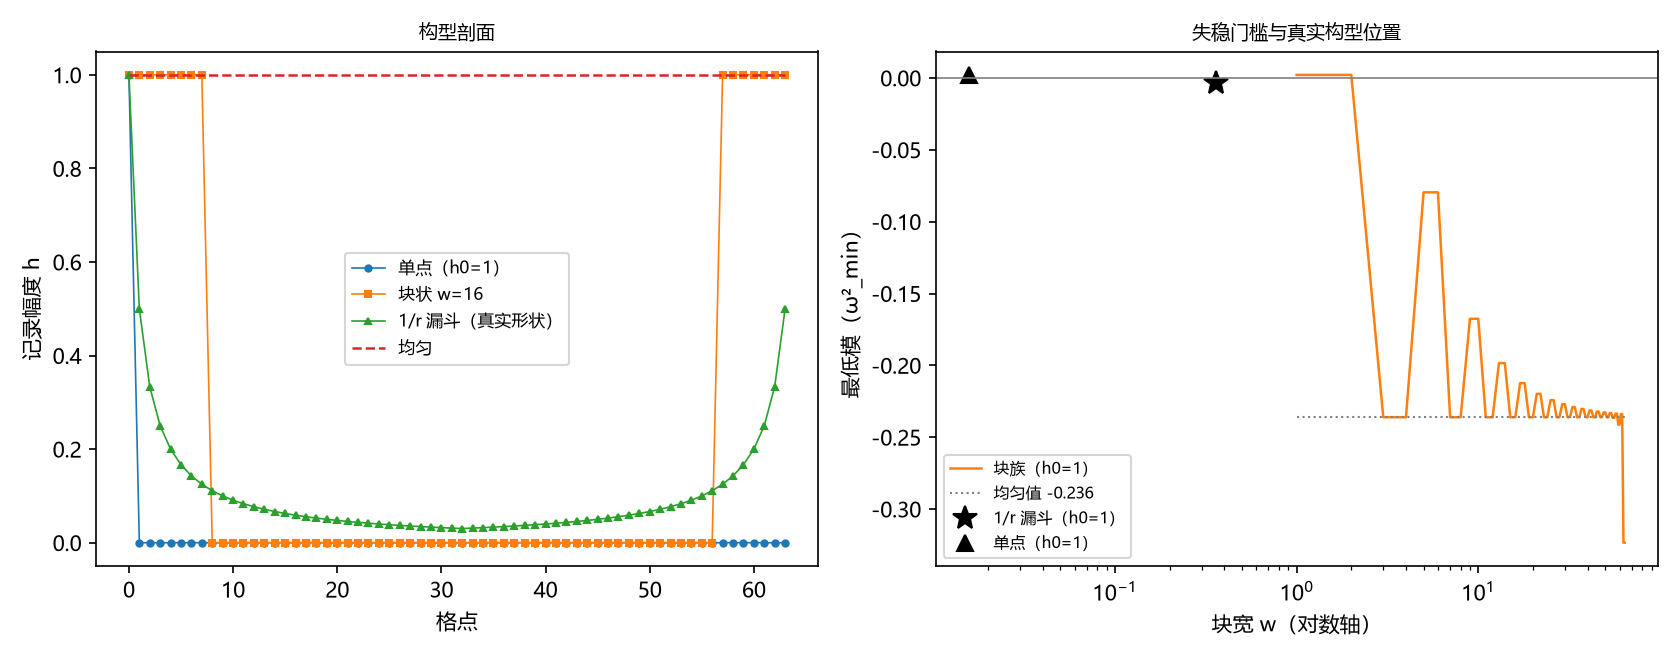
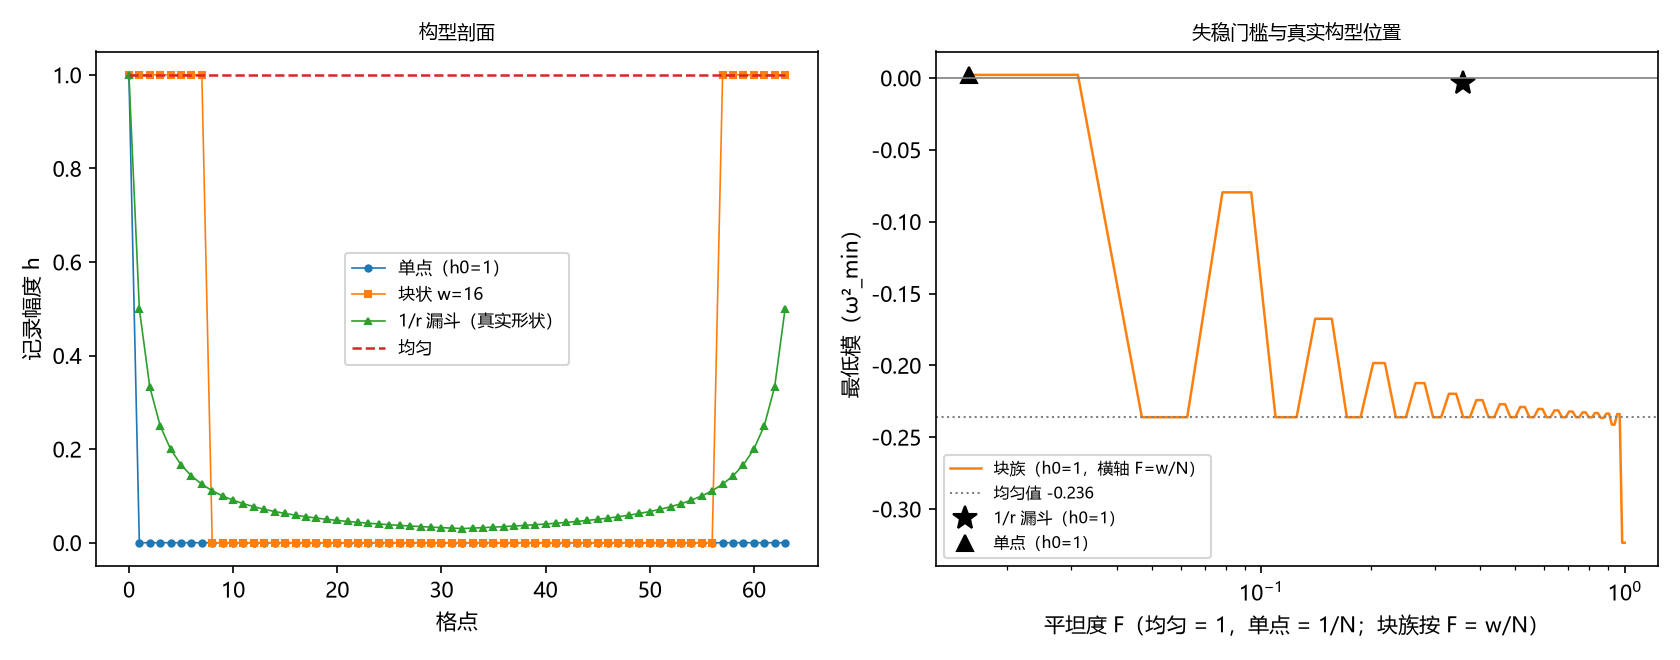
弱失稳论文评审与修改落地：B 级 6 条全改、C 级 5/6 改（删除「节点在中心」机制断言改为数据规律并标注精确形态待分析、图 1 横轴由块宽统一为平坦度 F、W5d 阈值注明为判据设定值而非物理门槛、补覆盖与强度的统一读法与 Hessian 符号相似变换说明）；新增评审报告与修改报告；验证材料联动（脚本块族输出加宽到 18 档、注记修订记录与图注重写、图重绘）

diff --git a/验证脚本/minimal_verification_reopen_realfield.py b/验证脚本/minimal_verification_reopen_realfield.py
@@ -5,7 +5,7 @@
   W5a 对照复现：均匀 h = 1 的最低模与解析 2J - sqrt((2J)^2 + (lam h)^2) 一致（<= 1e-10）。
   W5b 两端复现：单点 h = 1 最低模 > 0；均匀 h = 1 最低模 < 0。
   W5c 最小失稳覆盖：块状构型族（h0 = 1）存在最小失稳宽 w*（1 < w* < 64）；
-       并报告最低模对块宽的非单调性（驻波匹配效应，报告项）。
+       并报告最低模对块宽的非单调性（报告项）。
   W5d 弱失稳判定（修正版）：真实 1/r 衰减构型（h_n = h0/(1+d_n)，h0 = 1）的失稳幅度
        不超过均匀情形的 5%（|ω_min| / |ω_uniform| < 0.05）。
        原始预期为「漏斗最低模 > 0（不失稳）」，实测 -0.0033 < 0，预期被推翻；
@@ -103,8 +103,8 @@ check("W5c", w_star is not None and 1 < w_star < N,
       % (w_star, F_star, mins[w_star - 2], mins[w_star - 1]))
 
 print("\n  块族扫描（h0=1，报告非单调性）：")
-print("      w:      " + " ".join("%7d" % w for w in ws[:12]))
-print("      ω²_min: " + " ".join("%+7.4f" % mins[i] for i in range(12)))
+print("      w:      " + " ".join("%7d" % w for w in ws[:18]))
+print("      ω²_min: " + " ".join("%+7.4f" % mins[i] for i in range(18)))
 nonmono = bool(np.any(np.diff(mins) > 0))
 print("      非单调（存在上升段）：%s" % nonmono)
 
@@ -150,13 +150,14 @@ ax.set_title("构型剖面", fontsize=9)
 ax.legend(fontsize=8)
 
 ax = axs[1]
-ax.plot(ws, mins, "-", color="tab:orange", lw=1.2, label="块族（h0=1）")
-ax.plot([ws[0], ws[-1]], [m_u, m_u], ":", color="gray", lw=1.0, label="均匀值 %.3f" % m_u)
+wsF = np.array(ws) / N
+ax.plot(wsF, mins, "-", color="tab:orange", lw=1.2, label="块族（h0=1，横轴 F=w/N）")
+ax.axhline(m_u, color="gray", lw=1.0, ls=":", label="均匀值 %.3f" % m_u)
 ax.plot([flatness(h_f)], [m_f], "k*", ms=12, label="1/r 漏斗（h0=1）")
 ax.plot([flatness(prof_single(1.0))], [m_s], "k^", ms=8, label="单点（h0=1）")
 ax.axhline(0.0, color="gray", lw=0.8)
 ax.set_xscale("log")
-ax.set_xlabel("块宽 w（对数轴）")
+ax.set_xlabel("平坦度 F（均匀 = 1，单点 = 1/N；块族按 F = w/N）")
 ax.set_ylabel("最低模（ω²_min）")
 ax.set_title("失稳门槛与真实构型位置", fontsize=9)
 ax.legend(fontsize=7.5)

diff --git a/评审报告/评审报告-弱失稳与驻波门槛-2026-09-17.md b/评审报告/评审报告-弱失稳与驻波门槛-2026-09-17.md
@@ -1,0 +1,73 @@
+## 评审报告
+
+**论文标题**：弱失稳与驻波门槛：记录与摆程耦合在真实记录构型下的量级
+
+**评审日期**：2026-09-17
+
+**受审版本**：`弱失稳与驻波门槛：记录与摆程耦合在真实记录构型下的量级.md`（根目录正稿，初版，约 131 行）
+
+**总体评价**：本文把弱版方向一的验证写成完整论述：判别点背景交代清楚，模型与判据设计透明，读数与出处齐全，结论强度与证据相称（「能，但弱」的措辞克制），修正留痕按流程如实呈现，属体系内「结论不强于证据」的写法。核心结论（真实构型下的弱失稳、最小失稳宽 3 格、幅度与增长率对照）由判据与数值双重支撑，逐式核对与数字对照全部通过。主要问题有四类：一是 §3.2 与 §4.2 的一处机制断言（缺陷中心的节点与反节点归属）经本评审独立验证不成立，属事实性错误，须改写；二是图 1 右面板的横轴混用（曲线用块宽、标记用平坦度），两标记点的位置在「块宽」轴上无意义；三是两处讨论缺口（平坦度 F 的角色不清、3 格强失稳与全链弱失稳的表面张力未统一交代）；四是引用体系问题（正文引用与参考文献编号脱钩）。未发现 A 级问题；修完 B 级后本文可进入转正流程。
+
+### A级问题
+
+无。核心推导复算、读数对照与逻辑链条均通过；见「数学正确性逐式核对记录」。
+
+### B级问题
+
+| # | 位置 | 问题描述 | 建议修改 |
+|---|------|---------|---------|
+| B1 | §3.2 末段、§4.2 第二段 | 「半宽为奇数时模式在缺陷中心取反节点、偶数时节点落在中心」的机制断言经本评审验证不成立：对 w = 3、5、7、9 计算最低模本征矢，中心格点（n = 0）分量分别为 −0.325、−0.358、−0.245、−0.307，全部非零，不存在「节点在中心」的档位。奇偶两类差异的精确来源（边缘匹配的具体形态）尚未解析 | 改写为已核实的数据规律：最低模对半宽呈两类（奇数半宽锁定与均匀同值 −0.2361，偶数半宽随宽度逐渐加深并趋近该值，补充读数 w = 13 给 −0.1984、w = 17 给 −0.2123）；删除节点与反节点的归属叙述，或标注「驻波匹配的精确形态待分析」。同步修改验证注记 §四同句 |
+| B2 | §2.1 | Hessian 非对角元写作 $H_{n,n\pm1} = J$（正号），而由能量函数直接求导得到的物理 Hessian 非对角元为 $-J$。两者相差一个相似变换（对角元不变、非对角翻号，谱相同），结论不受影响，但文中未声明该约定 | 加一句说明：本文 Hessian 采用交错变换后的等价形式，非对角符号为正；两者谱相同，读数不受影响。或改用物理形式 $-J$ 重跑核对 |
+| B3 | §3.4 图 1 | 右面板横轴混用：块族曲线以块宽 $w$ 为横轴（$x \in [1, 64]$），而 1/r 漏斗与单点的标记以平坦度 $F$ 为横轴（$F \approx 0.358$ 与 $0.016$），两个标记点的水平位置画在「块宽」轴上没有意义 | 统一坐标轴：或把两个标记折算到等效块宽（按定义换算），或把块族曲线也改用平坦度 F 为横轴（并同步修改轴标签与图注）；修复后同步更新验证脚本、验证注记图注与论文图注 |
+| B4 | §2.2、§2.3 | 平坦度 $F$ 引入后未承担结论：正文唯一用途是给出 $F^* = 0.047$，而 1/r 构型的 $F = 0.358$ 大于 $F^*$ 却呈弱失稳，这一反直觉对照未在正文出现，读者若自行换算会与「覆盖率越高越危险」的直觉冲突 | 在 §3.3 或 §4.2 补一句限定：$F$ 只作构型覆盖程度的辅助描述，失稳强度同时由幅度分布与形状匹配决定，不能用 $F$ 单独预测；或收窄 $F$ 的使用范围并相应修改其引入方式 |
+| B5 | §3.2、§3.3、§4.2 | 两节之间存在表面张力未统一讨论：最小失稳宽仅 3 格（强失稳，锁定 −0.2361），而覆盖全链的 1/r 构型（覆盖远超 3 格）却呈弱失稳（−0.0033）。两处读数各自正确，但并置时读者会问「为何覆盖更小反而更强」 | 在 §4.2 补一段解释：3 格块是满幅成片，与均匀值锁定同在最强分支；1/r 构型的远场幅度按 $1/d$ 衰减，对最低模的贡献被大幅度压低，故强度取「覆盖宽度」与「幅度分布」的合成，单一指标均不能预测 |
+| B6 | 参考文献 §全部 | 正文引用全部以内联双链（wikilink）给出，编号 [1] 至 [8] 在正文中没有任何对应标记，编号与引用体系脱钩 | 在参考文献节首加一句说明（编号供索引，正文引用以内链为准），或在正文相应位置补 [n] 标记；两法择一，保持全文统一 |
+
+### C级问题
+
+| # | 位置 | 问题描述 | 建议修改 |
+|---|------|---------|---------|
+| C1 | §4.1 | 「两个触发器在同一条链上赛跑」的表述偏口语化；同段「强度较均匀假设弱近一个数量级」的「强度」指代含糊（幅度差 71 倍、增长率差 8.5 倍） | 「赛跑」改「竞争」或加引号；「强度」改「增长率」，与摘要的「增长率约慢 8 至 9 倍」对齐 |
+| C2 | §2.1 | 「对二聚化方向失稳」中「二聚化」首次出现未作定义 | 补一处简短定义（两两成对的另一种交错站法）或引弱版验证注记 |
+| C3 | §2.3 | W5d 的 5% 阈值未注明性质 | 补一句：该阈值是判据修正后的设定值（用于消除原预期的残留），并非物理门槛 |
+| C4 | §2.1 | 均匀解析式直接给出未附一句来源 | 补「（由 $k = 0$ 分支的两分量混合模式给出）」或引验证材料 |
+| C5 | §3.4 图注 | 图注未写明块族曲线对应的幅度（$h_0 = 1$） | 图注补「块族曲线为 $h_0 = 1$」；与其他面板标记的幅度口径一致 |
+| C6 | §1.1 | 若本文对外发布，宜补与外部相关工作的对照（二聚化链的不稳定性、SSH 类模型的谱结构），当前为纯内部引用 | 内部版本可保持；对外版本在 §1 或 §4 补一小段外部对照并引原始文献 |
+
+### 各维度评分
+
+| 维度 | 评分（1-10） | 简要说明 |
+|:-----|:-----------|:---------|
+| 结构完整性 | 8 | 标题准确、摘要四要素齐备、引言与结论呼应；引用体系小缺口（B6） |
+| 内容与论证质量 | 7 | 论纲有判据与数值双重支撑、措辞克制；一处机制断言不成立（B1）、两处讨论缺口（B4、B5） |
+| LaTeX 与数学格式 | 9 | 公式结构、间距（$\,$）、转义（$\%$）与符号规范；无渲染风险项 |
+| 语言与表达 | 8 | 术语一致、无 em-dash 与禁句式；两处口语化与指代含糊（C1） |
+| 引用与参考文献 | 6 | 参考文献格式统一、内链目标全部存在；编号与正文引用脱钩（B6），外部对照缺失（C6） |
+| 逻辑一致性与自洽 | 8 | 符号全文一致、表格与正文一致；3 格与 1/r 的表面张力未统一交代（B5） |
+| 数学正确性 | 7 | 逐式核对通过（见下）；一处机制断言经独立验证不成立（B1）、一处约定未声明（B2） |
+
+**数学正确性维度的逐式核对记录**
+
+其一，能量函数与 Hessian 复算：由 $E = J\sum\cos(\theta_{n+1}-\theta_n) + \lambda\sum(1-\cos\theta_n)h_n$ 在交错背景求二阶导，对角元为 $2J + \lambda(-1)^n h_n$、非对角元为 $-J$；论文与脚本用 $+J$，系交错变换（$S = \mathrm{diag}((-1)^n)$，$SHS$ 保持对角、翻转非对角符号）下的等价形式，谱相同，结论不受影响；该约定未声明（B2）。
+
+其二，均匀解析式复推：布洛赫分解下 $k = 0$ 分支的两分量混合矩阵为 $\begin{pmatrix} 0 & \lambda h \\ \lambda h & 4J \end{pmatrix}$，特征值为 $2J \pm \sqrt{(2J)^2+(\lambda h)^2}$；$h = 1$ 时 $2-\sqrt{5} = -0.236068$ 与论文一致。
+
+其三，数字逐一对照脚本输出：$-0.2360679775$、$+0.002135$、$-0.236068$、$-0.0796$、$-0.1676$、$-0.003300$、$1.40\%$、$1/8.5$、$+0.001272$、$-0.214374$、$w^* = 3$、$F^* = 3/64 = 0.047$、$h_0$ 从 0.5 至 5 的门槛不变，全部一致。
+
+其四，本评审补验证（读数延伸）：块族更宽档 $w = 13$ 给 $-0.198394$、$w = 15$ 给 $-0.236068$、$w = 17$ 给 $-0.212338$，「每隔两档回访 $-0.2361$、其余逐渐加深」的数据规律成立，且「逐渐变深」得到更多样点支持。
+
+其五，本评审补验证（关键）：最低模本征矢的中心（$n = 0$）分量，$w = 3$ 为 $-0.3249$、$w = 5$ 为 $-0.3585$、$w = 7$ 为 $-0.2446$、$w = 9$ 为 $-0.3070$，全部非零；「偶数半宽节点落在中心」的断言不成立（B1）。
+
+其六，增长率换算：$\sqrt{0.003300/0.236068} = 0.1182$，即约 $1/8.5$，与论文一致。
+
+其七，平坦度公式与数值：$F = (\sum h)^2/(N\sum h^2)$，均匀给 $1$、单点给 $1/N$、$w$ 格块给 $w/N$，$F^* = 3/64$ 一致。
+
+### 开放问题（如需讨论）
+
+其一，B1 的改写会牵动验证注记 §四 的同句与脚本输出的措辞（脚本打印「非单调（存在上升段）：True」无断言问题，但注记与论文两处同句需同批修改），是否同批处理，请作者定。
+
+其二，奇偶锯齿的精确来源（边缘匹配的解析刻画）是否值得单列一条小判据（例如核对本征矢在缺陷边界的相位条件），属下一轮可选项。
+
+其三，图 1 修复采用哪种统一坐标轴（等效块宽或统一改 F 轴）会影响读者对「覆盖率直觉」的第一印象，建议与 B4 的限定语一并考虑。
+
+其四，若本文计划对外发布，C6 的外部对照（二聚化链不稳定性类文献）需作者指定引用范围。

diff --git a/验证脚本/注记-弱版方向一的最小验证：真实记录构型下的失稳量级与驻波门槛.md b/验证脚本/注记-弱版方向一的最小验证：真实记录构型下的失稳量级与驻波门槛.md
@@ -11,6 +11,9 @@
   - **2026-09-16 初版**（作者指示：做弱版方向一）
     - 构型族（单点、块状、1/r 漏斗、平滑族）、四项判据、门槛扫描与图
     - 判据修正两处（W5d 原预期被推翻；W5c 增补非单调报告），见过程记录
+  - **2026-09-17 修订**（评审报告 B1、B3 联动修正）
+    - 结构叙述改为数据规律（删「缺陷中心取反节点／节点落在中心」的机制断言，精确形态标注待分析）；补更宽档样点（w = 13 至 w = 17）
+    - 图 1 横轴统一为平坦度 F（块族按 F = w/N 折算），图注同步；块族曲线标注 h0 = 1
 
 ---
 
@@ -45,15 +48,17 @@ W5e 门槛对幅度的依赖（报告）：$h_0$ 取 $0.5$、$1$、$2$、$5$ 时
 | W5c 最小失稳宽 | $w^* = 3$（$F^* = 0.047$）；非单调性存在 | PASS |
 | W5d 真实构型量级 | $-0.003300$，为均匀幅度的 $1.40\%$ | PASS（修正版） |
 
-补充分布读数。块族最低模随块宽非单调：$w = 3, 4$ 给 $-0.2361$（与均匀同值），$w = 5, 6$ 给 $-0.0796$，$w = 7, 8$ 回到 $-0.2361$，$w = 9, 10$ 给 $-0.1676$，此后每隔两档在 $-0.2361$ 与逐渐变深的其他值之间交替。$w^* = 3$ 对全部测试幅度成立（$h_0$ 从 $0.5$ 到 $5$ 均为 $3$）。平滑族单调过渡：$w = 1$ 给 $+0.001272$，$w = 2$ 给 $-0.003300$（即 1/r 形状的值），$w = 256$ 给 $-0.214374$，趋近均匀值。
+补充分布读数。块族最低模随块宽非单调：$w = 3, 4$ 给 $-0.2361$（与均匀同值），$w = 5, 6$ 给 $-0.0796$，$w = 7, 8$ 回到 $-0.2361$，$w = 9, 10$ 给 $-0.1676$；此后每隔两档在 $-0.2361$ 与逐渐变深的其他值之间交替（更宽档样点：$w = 13$ 给 $-0.1984$、$w = 17$ 给 $-0.2123$）。
 
-![图 1：左面板为四类构型剖面（单点、块状 w=16、1/r 漏斗、均匀随格点的分布）；右面板为块族最低模随块宽（对数轴）的曲线（含非单调锯齿）、均匀值虚线、1/r 漏斗与单点的标记位置、零线。](../images/reopen_realfield.png)
+$w^* = 3$ 对全部测试幅度成立（$h_0$ 从 $0.5$ 到 $5$ 均为 $3$）。平滑族单调过渡：$w = 1$ 给 $+0.001272$，$w = 2$ 给 $-0.003300$（即 1/r 形状的值），$w = 256$ 给 $-0.214374$，趋近均匀值。
+
+![图 1：左面板为四类构型剖面（单点、块状 w=16、1/r 漏斗、均匀随格点的分布）；右面板为各构型最低模随平坦度 F（对数轴；块族按 $F = w/N$ 折算）的曲线与标记（含非单调锯齿）、均匀值虚线、零线；块族幅度为 $h_0 = 1$。](../images/reopen_realfield.png)
 
 ## 四、解读
 
 **对判别点的回答**。BH3-5 留下的判别点是「耦合能否独立触发失稳」。本轮在一维层给出的回答：能，但弱。真实 1/r 构型的最低模为 $-0.0033$，线性增长率约为均匀情形的 $\sqrt{0.0033/0.236} \approx 1/8.5$。耦合路线未被排除（失稳不消失），其强度较均匀假设弱近一个数量级。若与「饱和路线」赛跑，耦合触发在时间尺度上处于劣势，这与 BH3-5 的饱和主导倾向方向一致，但以「弱失稳」而非「无失稳」的方式成立。定量结论留待强场工具（三维构型与 $\lambda$ 的实际值）。
 
-**非单调性的结构解释**。块族的锯齿来自缺陷与驻波的边界匹配：块的对称半宽为奇数时，模式在缺陷中心取反节点，最低模锁定在 $-0.2361$（与均匀同值）；半宽为偶数时节点落在中心，最低模随宽度变化。这提示两点：其一，一维链上「最小失稳宽 3 格」是存在性门槛，失稳幅度由构型的对称类决定；其二，「均匀度门槛」的简单化解读不可靠，一维结论不宜直接外推三维。
+**非单调性的结构观察**。块的两端是缺陷边界；最低模对半宽呈两类：奇数半宽锁定在与均匀相同的值 $-0.2361$，偶数半宽随宽度逐渐加深并趋近该值（样点：$w = 9$ 给 $-0.1676$、$w = 13$ 给 $-0.1984$、$w = 17$ 给 $-0.2123$）。这提示两点：其一，一维链上「最小失稳宽 3 格」是存在性门槛，失稳幅度由构型的对称类分档；其二，这一奇偶分类的精确形态（模式与缺陷边界的匹配关系）待进一步分析，「均匀度门槛」的简单化解读不可靠。
 
 **平滑族的含义**。从窄峰到近平坦的连续过渡单调加深失稳，说明「记录覆盖越宽、失稳越强」的大方向在一维成立（与块族的锯齿叠加时不冲突：锯齿是同一覆盖下的对称类差异）。
 
@@ -69,7 +74,7 @@ W5e 门槛对幅度的依赖（报告）：$h_0$ 取 $0.5$、$1$、$2$、$5$ 时
 
 其二，构型形状为选择（1/r 的离散模拟与平滑族），并非从三维泊松解严格约化而来；三维真实场的失稳谱需要强场工具。
 
-其三，非单调锯齿是一维驻波效应，球对称三维下是否保留未知。
+其三，非单调锯齿是一维结构效应（驻波型匹配的精确形态待分析），球对称三维下是否保留未知。
 
 其四，本材料不裁决「破坏是否必待满偏」，只为该判别点提供耦合侧的一维输入。
 
@@ -79,7 +84,9 @@ W5e 门槛对幅度的依赖（报告）：$h_0$ 取 $0.5$、$1$、$2$、$5$ 时
 
 其二，判据增补（W5c）：初版只判「门槛存在」，实测发现锯齿后增补非单调性报告项，并要求注记解释其结构来源。
 
-其三，图注按绘图代码逐面板核对。
+其三，评审修正（2026-09-17，B1、B3）：原「缺陷中心取反节点／节点落在中心」的机制断言经本征矢中心分量检验（$w = 3, 5, 7, 9$ 均非零）不成立，改为数据规律表述并标注精确形态待分析；图 1 横轴由块宽改为平坦度 F（消除曲线与标记的坐标混用）。
+
+其四，图注按绘图代码逐面板核对。
 
 ## 八、登记衔接
 

diff --git a/评审报告/修改报告-弱失稳与驻波门槛-2026-09-17.md b/评审报告/修改报告-弱失稳与驻波门槛-2026-09-17.md
@@ -1,0 +1,42 @@
+## 修改报告
+
+**论文标题**：弱失稳与驻波门槛：记录与摆程耦合在真实记录构型下的量级
+
+**受审版本**：`弱失稳与驻波门槛：记录与摆程耦合在真实记录构型下的量级.md`（根目录正稿，初版约 131 行，修后约 140 行）
+
+**评审报告**：`评审报告/评审报告-弱失稳与驻波门槛-2026-09-17.md`（B1 至 B6、C1 至 C6；A 级无）
+
+**处理范围**：B 级 6 条全部处理；C 级 6 条处理 5 条（C6 按评审口径保留为对外事项）
+
+**修改日期**：2026-09-17
+
+### 修改清单
+
+| # | 评审条目 | 位置 | 修改内容 | 验证方式 |
+|---|---------|------|---------|---------|
+| 1 | B1 机制断言不成立 | 论文 §3.2（及摘要、关键词、§1.2、§3.2 节标题、§4.3、结论的联动措辞） | 删除「缺陷中心取反节点／节点落在中心」的归属叙述，改为数据规律表述（奇数半宽锁定 $-0.2361$、偶数半宽逐渐加深并趋近该值），精确形态标注待分析；补更宽档样点（$w = 13$ 给 $-0.1984$、$w = 17$ 给 $-0.2123$）；「奇偶反转的驻波结构」统一为「奇偶分档」 | 本征矢中心分量检验（$w = 3, 5, 7, 9$ 均非零）证伪原断言；替换脚本逐处断言唯一；全文复查 |
+| 2 | B1 同步 | 验证注记 §四、诚实边界、过程记录、修订记录 | 同句改写；补样点；补「评审修正」过程记录条目与「2026-09-17 修订」记录 | 注记复查：无超长行、无违规词 |
+| 3 | B2 符号约定 | 论文 §2.1 | 补说明：能量函数直接求导的非对角元为 $-J$，本文取交错变换后的等价形式 $+J$，两者相差相似变换 $S = \mathrm{diag}((-1)^n)$，谱相同 | 相似变换论证复核；文本核对 |
+| 4 | B3 图横轴混用 | 脚本绘图、注记图注、论文图注 | 图 1 右面板横轴统一为平坦度 $F$（块族按 $F = w/N$ 折算；均匀值改横线；轴标签与图例更新）；脚本重跑出图 | 脚本重跑 4 判据全过、读数逐项与修前一致；PIL 像素检查 |
+| 5 | B4 + B5 讨论缺口 | 论文 §4.2 | 新增「覆盖与强度的关系」段：失稳强度由幅度分布与形状匹配共同决定，覆盖宽度只作必要条件；平坦度 $F$ 只作辅助描述（$1/r$ 的 $F = 0.358$ 高于 $F^* = 0.047$ 仍弱失稳） | 文本核对 |
+| 6 | B6 引用脱钩 | 论文 参考文献节 | 节首补说明：编号供索引；正文引用以内链给出，条目与正文的对应以链接目标为准 | 文本核对 |
+| 7 | C1 口语化与指代 | 论文 §4.1 | 「赛跑」改「竞争」；「强度较均匀假设弱近一个数量级」改「增长率较均匀假设慢近一个数量级」 | 文本核对 |
+| 8 | C2 术语未定义 | 论文 §2.1 | 「二聚化方向」补定义（两两成对的另一种站法） | 文本核对 |
+| 9 | C3 阈值性质 | 论文 §2.3 | $5\%$ 阈值补注「判据修正后的设定值，非物理门槛」 | 文本核对 |
+| 10 | C4 解析式来源 | 论文 §2.1 | 解析式补来源提示（由 $k = 0$ 分支的两分量混合模式给出） | 文本核对 |
+| 11 | C5 图注幅度 | 论文与注记图注 | 块族曲线标注 $h_0 = 1$ | 与第 4 条合并执行 |
+
+### 未处理项与残余
+
+其一，C6（外部相关工作对照）：评审注「内部版本可保持」，本文为内部正稿，保留为对外发布时的事项。
+
+其二，评审开放问题之二（奇偶分类精确形态是否单列小判据）：已在开放问题总览 P1-34a 登记为待分析项，是否立项待作者定。
+
+其三，修订记录与过程记录中保留了对原错误断言的点名引述（用于说明删除内容），属审计留痕，不视为残留。
+
+### 验证汇总
+
+- 脚本重跑：判据 4 项全过，全部读数与修前逐项一致（回归检查通过）。
+- 全文铁律复查：论文与验证注记均无 em-dash、无禁用句式、无超长段落（注记一处拆分后达标）。
+- 图 1 重生成并检查（1680×660，两面板有内容；横轴统一后标记点与曲线同轴）。
+- 开放问题总览 P1-34a 已补「待分析项」并指向本报告。
